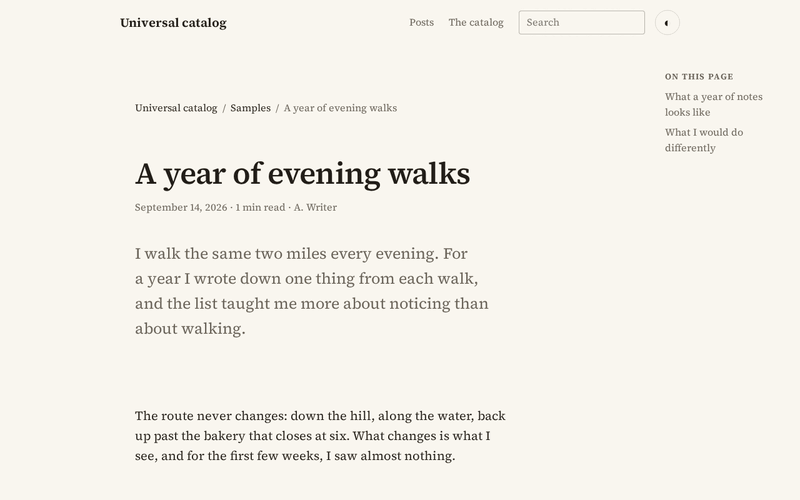
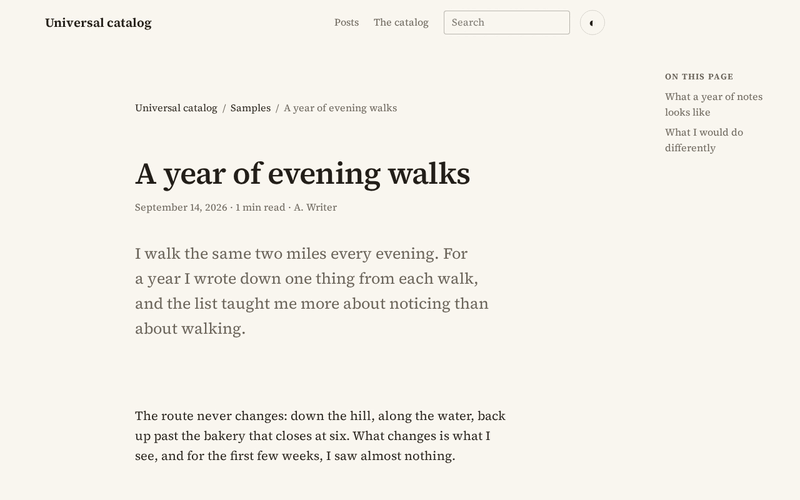
line the header and footer up for schematic, other things

Changed region(s): [[0.4062, 0.03, 0.7188, 0.06], [0.0625, 0.03, 0.2812, 0.06]]

diff --git a/catalogs/universal/assets/css/base.css b/catalogs/universal/assets/css/base.css
@@ -276,10 +276,23 @@ sup a[role="doc-noteref"], .footnote-ref {
    when the frame has them, on a screen wide enough. */
 .shell { display: grid; grid-template-columns: minmax(0, 1fr); }
 .shell > main { min-width: 0; }
+/* --side is the column a sidebar takes. Beside one, the writing is centered
+   in the space left, and the site's header and footer line up over it. */
+:root { --side: 15rem; }
 @media (min-width: 64rem) {
-  .shell.has-left { grid-template-columns: 15rem minmax(0, 1fr); }
-  .shell.has-right { grid-template-columns: minmax(0, 1fr) 15rem; }
-  .shell.has-left.has-right { grid-template-columns: 15rem minmax(0, 1fr) 15rem; }
+  .shell.has-left { grid-template-columns: var(--side) minmax(0, 1fr); }
+  .shell.has-right { grid-template-columns: minmax(0, 1fr) var(--side); }
+  .shell.has-left.has-right { grid-template-columns: var(--side) minmax(0, 1fr) var(--side); }
+  body:has(> .shell.has-left:not(.has-right)) :is(.part-header, .part-footer):not(main *) { padding-left: var(--side); }
+  body:has(> .shell.has-right:not(.has-left)) :is(.part-header, .part-footer):not(main *) { padding-right: var(--side); }
+  body:has(> .shell.has-left:not(.has-right)) :is(.masthead, .site-footer) {
+    margin-left: calc(var(--side) + max(0px, (100% - var(--side) - var(--measure) - 2 * var(--space-3)) / 2));
+    margin-right: auto;
+  }
+  body:has(> .shell.has-right:not(.has-left)) :is(.masthead, .site-footer) {
+    margin-left: auto;
+    margin-right: calc(var(--side) + max(0px, (100% - var(--side) - var(--measure) - 2 * var(--space-3)) / 2));
+  }
 }
 
 /* Dark, when the frame's theme-switch is set to it: the palette's own dark

diff --git a/catalogs/universal/assets/js/parts/search.js b/catalogs/universal/assets/js/parts/search.js
@@ -5,7 +5,7 @@
 // page without reloading it; anything set up once is marked and skipped.
 // The feed's path is from the site's root, where this script's own folder
 // (js/parts/) is: the built site may sit under a path.
-const SITE = (document.currentScript?.src ?? location.href).replace(/js\/parts\/[^/]*$/, "");
+const searchSite = (document.currentScript?.src ?? location.href).replace(/js\/parts\/[^/]*$/, "");
 const searches = () => document.querySelectorAll(".part-search[data-feed]:not([data-ready])").forEach((form) => {
   form.dataset.ready = "";
   const input = form.querySelector("input[type=search]");
@@ -13,7 +13,7 @@ const searches = () => document.querySelectorAll(".part-search[data-feed]:not([d
   let items;
   const load = async () => {
     if (items) return items;
-    const xml = new DOMParser().parseFromString(await (await fetch(new URL(form.dataset.feed, SITE))).text(), "application/xml");
+    const xml = new DOMParser().parseFromString(await (await fetch(new URL(form.dataset.feed, searchSite))).text(), "application/xml");
     items = [...xml.querySelectorAll("item")].map((i) => ({
       title: i.querySelector("title")?.textContent ?? "",
       link: i.querySelector("link")?.textContent ?? "",

diff --git a/catalogs/universal/assets/js/parts/diagram.js b/catalogs/universal/assets/js/parts/diagram.js
@@ -9,12 +9,12 @@ const INTEGRITY = "sha384-rbtjAdnIQE/aQJGEgXrVUlMibdfTSa4PQju4HDhN3sR2PmaKFzhEaf
 // page without reloading it; anything set up once is marked and skipped.
 // Mermaid's path is from the site's root, which is where this script's own
 // folder (js/parts/) is: the built site may sit under a path, or on disk.
-const SITE = (document.currentScript?.src ?? location.href).replace(/js\/parts\/[^/]*$/, "");
+const diagramSite = (document.currentScript?.src ?? location.href).replace(/js\/parts\/[^/]*$/, "");
 let mermaidReady;
 let drawn = 0;
 const loadMermaid = (src) => (mermaidReady ??= new Promise((resolve, reject) => {
   const script = document.createElement("script");
-  script.src = new URL(src, SITE).href;
+  script.src = new URL(src, diagramSite).href;
   // A browser cannot check a file opened from disk, and would refuse it.
   if (location.protocol !== "file:") {
     script.integrity = INTEGRITY;

diff --git a/catalogs/universal/assets/css/skins/schematic.css b/catalogs/universal/assets/css/skins/schematic.css
@@ -36,6 +36,21 @@
 @media (max-width: 47.99rem) {
   main.flow { padding-top: var(--space-2); }
 }
+/* The header and footer as wide as the sheet and over it, their edges
+   level with its wide pictures. */
+@media (min-width: 48rem) {
+  .part-header-inner, .part-footer-inner {
+    --sheet: min(100% - 2 * var(--space-3), var(--wide) + 2 * var(--space-4));
+    max-width: var(--sheet);
+    padding-inline: var(--space-4);
+  }
+}
+@media (min-width: 64rem) {
+  body:has(> .shell.has-left:not(.has-right)) :is(.part-header-inner, .part-footer-inner) {
+    margin-left: min((100% - var(--sheet)) / 2, max(var(--space-3), 100% - var(--sheet) - 16rem));
+    margin-right: auto;
+  }
+}
 /* Centered in the space beside a sidebar, as every theme centers its
    writing; moved left only as far as it takes to leave the right margin
    room for notes (16rem), and never closer to the sidebar than a gap. */

diff --git a/testing/TESTING.md b/testing/TESTING.md
@@ -50,6 +50,7 @@ New theme `schematic`, two new parts for every theme (catalog version 12): `glos
 | S9 | Switch the system to dark | Dark gray sheet on near-black, light ink, a lighter blue. |
 | S10 | `rubric build` in `my-garden`, open `public/posts/first/index.html` straight from the file manager or `open` | Drawn in schematic as in the live page, glossary and ruler working: links are relative now, with no integrity checks a browser refuses from disk. `live-server public` works too. From disk, a link to another page opens its folder, not the page: Hugo's folder addresses need a server. |
 | S11 | `::: reading-progress style=bar` in `rubric.md`, with any theme | A faint line across the very top, filling in the accent as you scroll. |
+| S12 | A wide screen (1920 or more) with the sidebar, in Schematic and then in Paper | The writing centered in the space right of the sidebar, the header and footer lined up over it; in Schematic the header spans the sheet. |
 
 Afterwards: `rm -rf /tmp/my-garden`.
 
